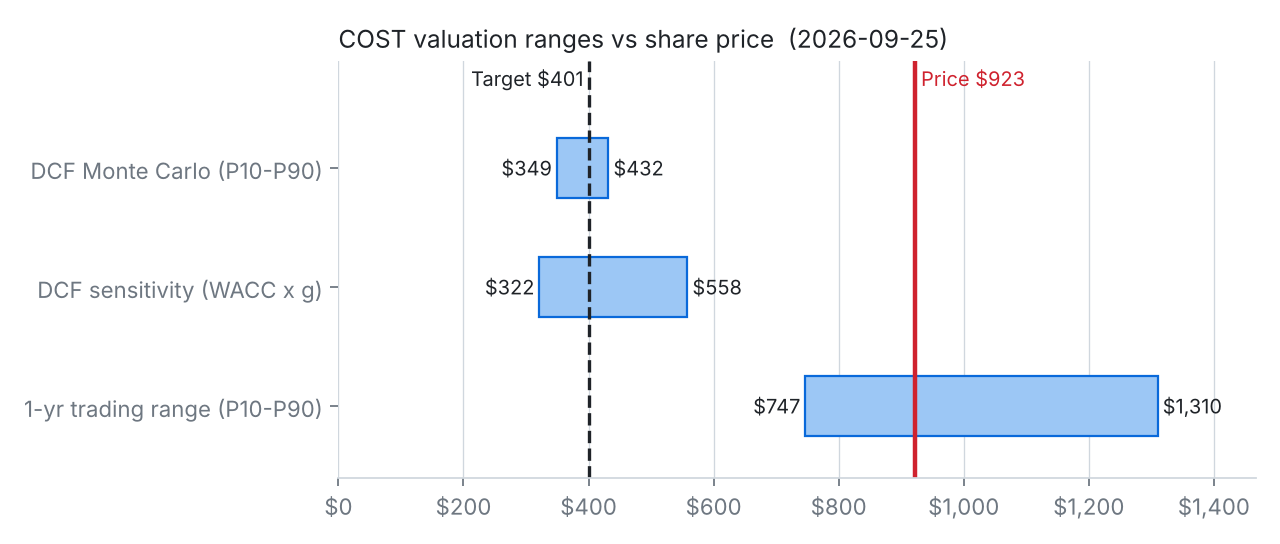
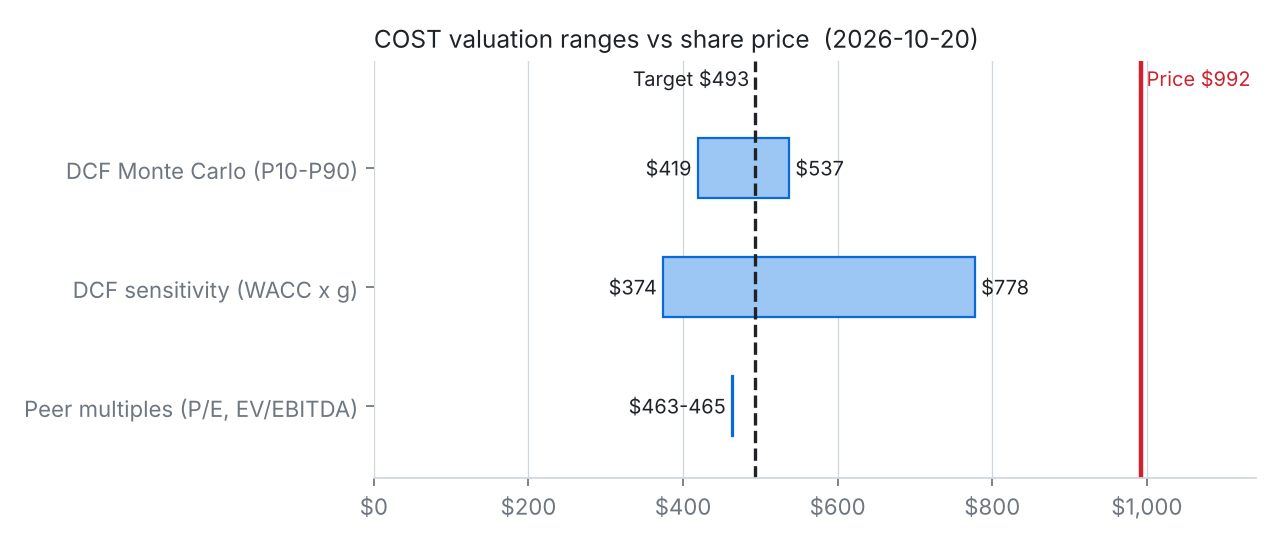
Update README and charts with Oct 20 live run ($493 target)
Claude-Session: https://claude.ai/code/session_01PwWiu9VvfnFup429FUePv6

diff --git a/valuation_engine.py b/valuation_engine.py
@@ -352,8 +352,11 @@ def save_charts(out: Path, price: float, target: float, mc_dcf: np.ndarray,
     fig, ax = plt.subplots(figsize=(8, 0.6 * len(ranges) + 1.6), dpi=160)
     for i, (label, lo, hi) in enumerate(reversed(ranges)):
         ax.barh(i, hi - lo, left=lo, height=0.5, color=ACCENT_LIGHT, edgecolor=ACCENT)
-        ax.text(lo - 8, i, f"${lo:,.0f}", ha="right", va="center", color=INK, fontsize=9)
-        ax.text(hi + 8, i, f"${hi:,.0f}", ha="left", va="center", color=INK, fontsize=9)
+        if hi - lo < 20:   # too narrow for two labels
+            ax.text(lo - 8, i, f"${lo:,.0f}-{hi:,.0f}", ha="right", va="center", color=INK, fontsize=9)
+        else:
+            ax.text(lo - 8, i, f"${lo:,.0f}", ha="right", va="center", color=INK, fontsize=9)
+            ax.text(hi + 8, i, f"${hi:,.0f}", ha="left", va="center", color=INK, fontsize=9)
     ax.set_yticks(range(len(ranges)), [r[0] for r in reversed(ranges)])
     ax.axvline(price, color=WARN, lw=2)
     ax.axvline(target, color=INK, lw=1.5, ls="--")
@@ -361,7 +364,7 @@ def save_charts(out: Path, price: float, target: float, mc_dcf: np.ndarray,
     ax.text(target, len(ranges) - 0.35, f"Target ${target:,.0f} ", color=INK, fontsize=9,
             va="bottom", ha="right")
     hi_all = max(price, max(r[2] for r in ranges))
-    ax.set_xlim(0, hi_all * 1.12)
+    ax.set_xlim(0, hi_all * 1.15)
     ax.set_ylim(-0.6, len(ranges) - 0.1)
     ax.xaxis.set_major_formatter(lambda v, _: f"${v:,.0f}")
     ax.grid(axis="x", color=GRID, lw=0.6)

diff --git a/README.md b/README.md
@@ -10,19 +10,19 @@ Bommisetty Venkata Karthik, MBA (Finance) + MS Business Analytics, UIC
 
 ---
 
-## My call: SELL, $401 target
+## My call: SELL, $493 target
 
-Costco closed at $922.76 on September 25, 2026. My DCF puts it at about $401 a share. When I ran it 10,000 times with different growth, margin and discount rate assumptions, most of the values landed between $349 and $432.
+When I ran the model with live data on October 20, 2026, Costco was trading at $992.35. My DCF puts it at about $493 a share. When I ran it 10,000 times with different growth, margin and discount rate assumptions, most of the values landed between $419 and $537, and none of them came close to the current price.
 
-I want to be clear that I think Costco is a great company. It barely uses debt, members pay up front, suppliers basically fund its inventory, and it covers its interest payments about 80 times over. My issue is the price. At 44x earnings and 11x book value, investors are paying for years of perfect execution from a business that keeps only about 3 cents of every sales dollar as profit.
+I want to be clear that I think Costco is a great company. It barely uses debt, members pay up front, suppliers basically fund its inventory, and it covers its interest payments about 80 times over. My issue is the price. At 48x earnings and 12x book value, investors are paying for years of perfect execution from a business that keeps only about 3 cents of every sales dollar as profit.
 
 A few things convinced me:
 
-1. **The growth the price assumes isn't realistic.** I ran the DCF backwards to see what growth would justify $923 a share. Keeping margins where I have them, Costco would need revenue to grow around 33% a year for five years. It grew 10.1% in FY2026, and that was still helped by the 2024 membership fee increase. My base case assumes 8% fading to 6%.
-2. **The result held up when I stress-tested it.** None of the 10,000 simulations got close to the current price. The most optimistic corner of my sensitivity table (8% WACC, 4% long-term growth) still only gets to $558.
+1. **The growth the price assumes isn't realistic.** I ran the DCF backwards to see what growth would justify $992 a share. Keeping margins where I have them, Costco would need revenue to grow around 28% a year for five years. It grew 10.1% in FY2026, and that was still helped by the 2024 membership fee increase. My base case assumes 8% fading to 6%.
+2. **The result held up when I stress-tested it.** None of the 10,000 simulations got close to the current price. The most optimistic corner of my sensitivity table (6.8% WACC, 4% long-term growth) still only gets to $778. Peer multiples point the same way: at the median P/E of Walmart, Target and BJ's, Costco would be worth about $463.
 3. **A lot depends on membership fees.** Fees are under 2% of revenue but about half of operating income. If renewal rates slip from around 90%, earnings would take a much bigger hit than the revenue numbers suggest.
 
-One thing I had to think about: this is a valuation call, not a prediction that the stock drops next month. When I simulated where the stock could trade in a year based on its normal volatility, the odds of it actually hitting $401 were under 1%. Expensive stocks can stay expensive for a long time, especially ones people trust as much as Costco. My point is that the risk/reward at this price is bad, not that a crash is coming.
+One thing I had to think about: this is a valuation call, not a prediction that the stock drops next month. When I simulated where the stock could trade in a year based on its normal volatility, the odds of it actually hitting $493 were under 1%. Expensive stocks can stay expensive for a long time, especially ones people trust as much as Costco. My point is that the risk/reward at this price is bad, not that a crash is coming.
 
 ![Valuation ranges vs share price](charts/football_field.png)
 
@@ -68,7 +68,7 @@ All the inputs are in [`assumptions.json`](assumptions.json), so anyone can chan
 - **Starting point:** Costco's actual FY2026 numbers from their earnings release. Revenue of $303.2B, operating income of $11.7B, $20.2B in cash, $6.2B of debt and 443.3M shares.
 - **Revenue growth, 8% fading to 6%:** FY2026 was 10.1%, but part of that came from the fee increase rolling through renewals. I expect growth to slow as that wears off and the store base gets bigger.
 - **Operating margin, 3.9% rising to 4.1%:** It was 3.85% in FY2026. I allowed a small increase from membership fees and scale, but Costco keeps product margins thin on purpose, so I didn't want to assume much.
-- **Sales-to-capital, 8x:** This controls how much Costco has to reinvest to grow. Right now its revenue is about 14x its invested capital, partly because suppliers fund so much of its inventory. I used 8x to be conservative about new warehouse costs. At 14x the value only goes up to about $429, so this doesn't change the conclusion.
+- **Sales-to-capital, 8x:** This controls how much Costco has to reinvest to grow. Right now its revenue is about 14x its invested capital, partly because suppliers fund so much of its inventory. I used 8x to be conservative about new warehouse costs. At 14x the value only goes up to about $527, so this doesn't change the conclusion.
 - **Tax rate, 24%:** Close to Costco's recent effective rate.
 - **Discount rate:** Live Treasury yield, a 5% equity risk premium, and a beta from two years of weekly returns, adjusted toward 1 like most data providers do. My first version used one year of daily returns and got a beta of -0.17, which would mean Costco moves opposite to the market. That's not realistic, so the model now checks for it and falls back to Yahoo's published beta if the number looks off.
 - **Long-term growth, 3%:** Roughly in line with long-run nominal GDP.
@@ -82,7 +82,7 @@ All the inputs are in [`assumptions.json`](assumptions.json), so anyone can chan
 
 ## What I learned
 
-The biggest thing was learning to separate a great company from a good stock. Everything about Costco's balance sheet looks strong, but that doesn't make it a good buy at any price. I also learned how much a DCF depends on the terminal value. About 80% of my value comes from years after 2031, which made me a lot more careful about what I assume there.
+The biggest thing was learning to separate a great company from a good stock. Everything about Costco's balance sheet looks strong, but that doesn't make it a good buy at any price. I also learned how much a DCF depends on the terminal value. About 84% of my value comes from years after 2031, which made me a lot more careful about what I assume there.
 
 On the technical side, I liked having live data, the DCF, the simulations and a SQL log all in one script instead of spread across Excel tabs. It also made it easy to rerun everything when an assumption changed.
 
@@ -121,4 +121,4 @@ FROM runs ORDER BY run_id DESC;
 - Costco FY2026 earnings release (Sept 24, 2026), investor.costco.com
 - Yahoo Finance through the `yfinance` library
 
-*This is a student project, not investment advice. yfinance is an unofficial data source, so numbers can occasionally be delayed or missing. The figures above come from my September 25, 2026 run, and running the model again will update them.*
+*This is a student project, not investment advice. yfinance is an unofficial data source, so numbers can occasionally be delayed or missing. The figures above come from my October 20, 2026 live run, and running the model again will update them.*
